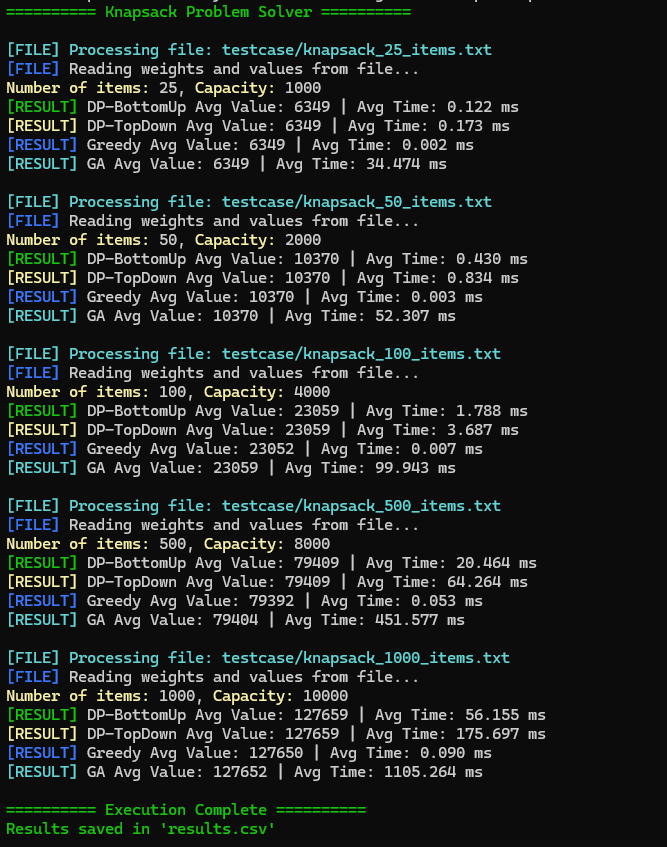
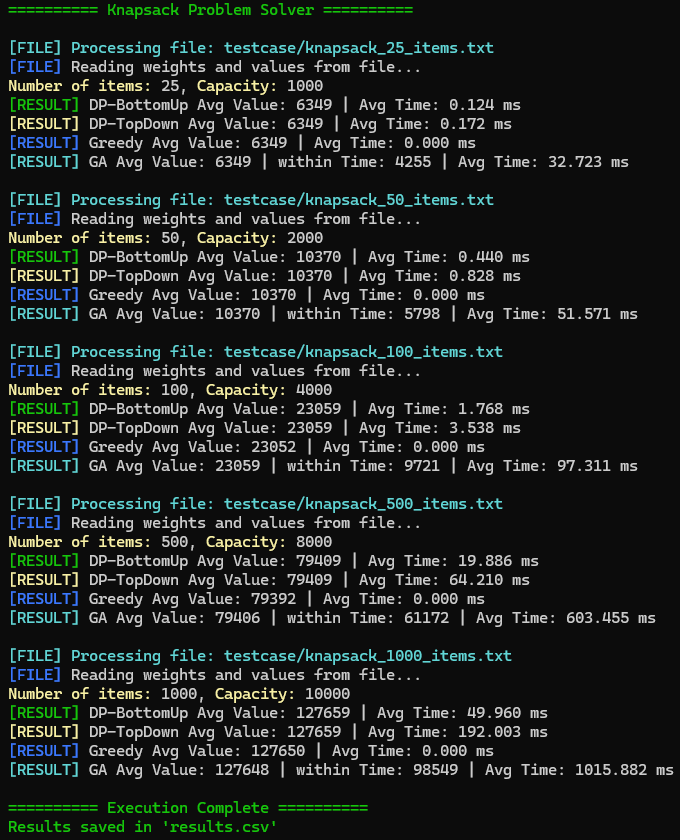
📝 : Update Result
Update Result CSV
Update UserInterface

Changed region(s): [[0.0, 0.0, 0.9895, 0.9905], [0.8096, 0.1857, 0.9295, 0.2167], [0.8096, 0.5262, 0.8996, 0.5571]]

diff --git a/main.c b/main.c
@@ -48,7 +48,7 @@ int main()
         "testcase/knapsack_1000_items.txt"};
     int num_files = sizeof(filenames) / sizeof(filenames[0]);
     int result;
-    int *ga_timelimit_result;
+    int ga_timelimit_result;
     double elapsed_time;
 
     // Open CSV file for writing results
@@ -60,7 +60,7 @@ int main()
     }
 
     // Write the header row to the CSV
-    fprintf(csv_file, "File,DP-BottomUp Avg Value,DP-BottomUp Avg Time (ms),DP-TopDown Avg Value,DP-TopDown Avg Time (ms),Greedy Avg Value,Greedy Avg Time (ms),GA Avg Value,GA Avg Time (ms)\n");
+    fprintf(csv_file, "File,DP-BottomUp Avg Value,DP-BottomUp Avg Time (ms),DP-TopDown Avg Value,DP-TopDown Avg Time (ms),Greedy Avg Value,Greedy Avg Time (ms),GA Avg Value,GA Avg Value within Time, GA Avg Time (ms)\n");
 
     printf("\033[1;32m========== Knapsack Problem Solver ==========\033[0m\n");
 
@@ -129,7 +129,7 @@ int main()
             double elapsed_time = (end.tv_sec - start.tv_sec) + (end.tv_nsec - start.tv_nsec) / 1e9;
             total_time_ga += elapsed_time;
             total_value_ga += result;
-            total_timelimit_value_ga += *ga_timelimit_result;
+            total_timelimit_value_ga += ga_timelimit_result;
         }
 
         // Calculate averages and convert to ms
@@ -141,19 +141,19 @@ int main()
         int avg_value_dp_td = total_value_dp_td / iterateRound;
         int avg_value_greedy = total_value_greedy / iterateRound;
         int avg_value_ga = total_value_ga / iterateRound;
-        int total_timelimit_value_ga = total_timelimit_value_ga / iterateRound;
+        int avg_timelimit_value_ga = total_timelimit_value_ga / iterateRound;
 
         printf("\033[1;32m[RESULT]\033[0m DP-BottomUp Avg Value: %d | Avg Time: %.3f ms\n", avg_value_dp_bu, avg_time_dp_bu);
         printf("\033[1;33m[RESULT]\033[0m DP-TopDown Avg Value: %d | Avg Time: %.3f ms\n", avg_value_dp_td, avg_time_dp_td);
         printf("\033[1;34m[RESULT]\033[0m Greedy Avg Value: %d | Avg Time: %.3f ms\n", avg_value_greedy, avg_time_greedy);
-        printf("\033[1;36m[RESULT]\033[0m GA Avg Value: %d | Avg Time: %.3f ms\n", avg_value_ga, avg_time_ga);
+        printf("\033[1;36m[RESULT]\033[0m GA Avg Value: %d | within Time: %d | Avg Time: %.3f ms\n", avg_value_ga, avg_timelimit_value_ga, avg_time_ga);
 
         // Write results to CSV
         fprintf(csv_file, "%s,%d,%.3f,%d,%.3f,%d,%.3f,%d,%d,%.3f\n",
                 filenames[i], avg_value_dp_bu, avg_time_dp_bu,
                 avg_value_dp_td, avg_time_dp_td,
                 avg_value_greedy, avg_time_greedy,
-                avg_value_ga, total_timelimit_value_ga, avg_time_ga);
+                avg_value_ga, avg_timelimit_value_ga, avg_time_ga);
 
         free(weights);
         free(values);
